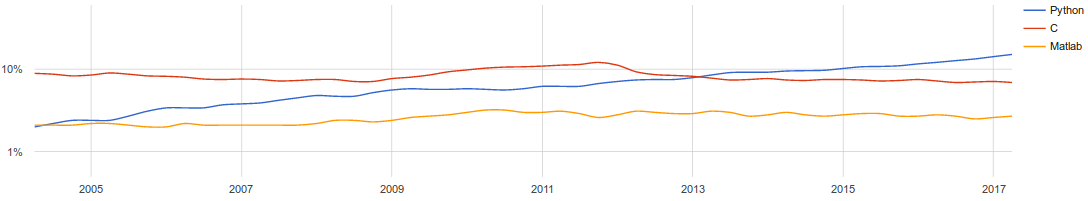
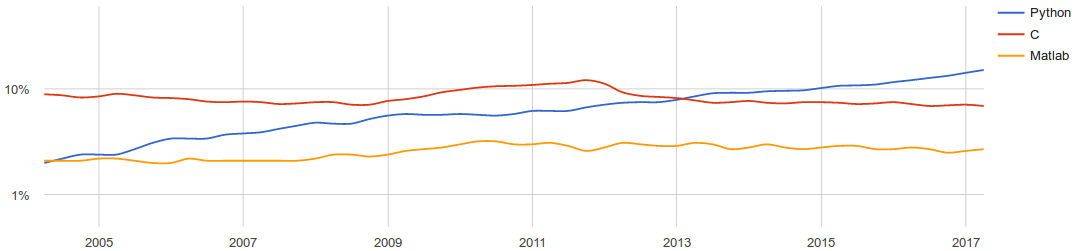
intro

diff --git a/docs/intro.rst b/docs/intro.rst
@@ -1,93 +1,65 @@
 Introduction
 ============
 
-
-Lately the digital designs made have raised in complexity.
-There are now many open-source tools that enable fast construction in software domain, for example
-GNURadio and Pothos. These tools provide users the simple way of connectin blocks togather and designing
-complex systems in this way. Downside of the software approach is that designs are slow to execute, for example
-the Wify core that cannot repsond to ACK packets in real life. There are works in progress on GPU accelerators but
-and RFNoC, but these are not suitable for embedded design.
-liiga spetsiifiline?
-
-In FPGA implementation is hard even though there exsists model.
-Implementaton the DSP blocks for FPGAs is not easy as the design progess still makes use of old Verilog and VHDL
-languages. Best way to do is MATLAB but it is expensive.
-
-This thesis presents a new Python based hardware descripton language(HDL) called Pyha, that focuses on
-simplifying development and testing process of DSP systems. Pyha aims to raise the abstraction level by
-providing sequential and object-oriented design model. Pyha is based on a OOP VHDL model that is also one
-contribution of this thesis. Simulatable in Python. Fixed point and semi-automatic conversion.
-
-One goal of this project is to make model based designs simpler, for this reason Pyha has been designed to provide
-simple unit-testing simulation functions that can work against model.
-
-Background
-----------
-
-Main way to desing digital hardware today is still VHDL and SystemVerilog(SV). SV is aggressively promoted by
+Main tools today for designing digital hardware are VHDL and SystemVerilog (SV). SV is aggressively promoted by
 the big EDA (Cadence, Mentor, Synopsys) along with Universal Verification Methodology (UVM).
-At 2003, Aart de Geus, Synopsys CEO, has stated that SystemVerilog will replace VHDL in 10 years :cite:`vhdl_dead`.
+At 2003, Aart de Geus, Synopsys CEO, has stated that SV will replace VHDL in 10 years :cite:`vhdl_dead`.
+It is true that tool vendors have stopped enchanting VHDL support, even so the development is going on in the
+open-source sphere,
+where VHDL-2017 standard :cite:`vhdl_iee` is in the development. In addition, active development is going on open
+source simulator GHDL, Open Source VHDL Verification Methodology (OSVVM) :cite:`osvvm` and unit-testing library
+VUnit:cite:`vunit`.
+All the improvements the traditional languages receive aim to ease the verification task,
+the synthesizable parts of VHDL and SV have stayed mostly the same for the past 10 years.
 
-Meanwhile the VHDL development is going on mostly in the open-source sphere where VHDL-2017
-standard :cite:`vhdl_iee` is in development. In addition, active work is going on with VHDL tools, for example
-open source VHDL simulator GHDL and unit-testing library VUnit:cite:`vunit`.
-Open Source VHDL Verification Methodology (OSVVM) :cite:`osvvm`.
-
-While these improvements work on the verification side, the synthesizable parts of VHDL and SV have stayed mostly
-the same for the past 20 years.
-
-Many projects propose to raise the RTL design abstraction level by using higher level programming
-constructs. For example, MyHDL turns Python into a hardware description and verification language,
-providing hardware engineers with the power of the Python ecosystem :cite:`myhdlweb`.
-Recently Chisel :cite:`chisel` has been gaining some attention,
+Numerous projects exist that propose to use higher level HDL languages in order to raise the abstraction level.
+For example, MyHDL turns Python into a hardware description and verification language :cite:`myhdlweb`.
+Or CλaSH :cite:`clash`, purely Haskell based functional language developed at University of Twente.
+Recently Chisel :cite:`chisel` has been gaining some traction,
 it is an hardware construction language developed at UC Berkeley that uses Scala programming language,
-they providing concepts including object orientation, functional programming, parameterized types,
-and type inference.
-From purely functional languages, there is CλaSH, an haskell based HDL, developed at University of Twente,
-that support higher order functions :cite:`clash`.
-None of these languages have gained widespread acceptance. Why?
+providing functional and object-oriented features.
+Still none of these tools have seen widespread adaption.
 
-On the other front high-level syntehsis(HLS) tools aim to automate the refinement from the algorithmic level to RTL :cite:`hls_overview`.
-Lately the Vivado HLS, developed by Xilinx, has been gaining some traction. As of 2015, it is included in the
-free design suite of Vivado (device limited). It works with C, C++ or SystemC input.
+On the other front, high-level synthesis(HLS) tools aim to automate the refinement from the algorithmic level to RTL
+:cite:`hls_overview`.
+Lately the Vivado HLS, developed by Xilinx, has been gaining popularity. As of 2015, it is included in the
+free design suite of Vivado (device limited).
 Problem with HLS tools is that they are often promoted as direct C to RTL tools but in reality
 often manual code transformations and guidlines are needed, in order
 to archive reasonable performance :cite:`vivado_hls_case_study`. The designer must already know how the RTL works in
-order to give these instructions. HLS tools are almost exclusevly based on C languages, another critisism has been
-that C is not that far from Verilog/VHDL.
+order to give these instructions.
 
 The DSP systems can be described in previously mentioned HLS or HDL languages,
 but the most productive way is to use MATLAB/Simuling/HDLConverter flow, which allows
-users to describe their designs in Simulink using HDL convertable blocks provided by MATLAB or Xilinx System Generator
-:cite:`borph`.
+users to describe their designs in Simulink or MATLAB and using HDL convertible blocks provided by MATLAB or FPGA tool
+vendor :cite:`borph`.
 
-
-Objective and scope
--------------------
-
-The scope of this thesis is on DSP systems conversion. As mentioned in the previous section, this domain is largely dominated
-by MATLAB products. One goal of this thesis is to to provide an open-source alternative to this.
+Problem statement
+-----------------
 
 There is no doubt that MATLAB based workflow offers an highly productive path from DSP models to hardware. However
-these tools can easily cost over tens of thousands euros, in addition they often require FPGA vendor tools that can add
-additional annual cost :cite:`borph`. Using these tools is not a good way for reproducible
+these tools can easily cost over tens of thousands euros, often FPGA vendor tools are required that add
+additional annual cost :cite:`borph`. Using these tools is not suitable for reproducible
 research and is completely unusable for open-source designs.
-Thus the designers must turn to alternative methods, for example :cite:`blade_adsb` provides an hardware implementation of
-an ADS-B (automatic dependent surveillance – broadcast). First, they did the prototyping in the MATLAB environment, the
-working model was then translated to C in order for real-time testing and fixed-point implementation. Lastly the C
-model was manually converted to VHDL.
-In this work, Pyha has been designed in a way that all of this workflow could be done in the Python domain.
-Long term goal is to develop enough blocks that
-that match the performance of GNURadio, so that flow-graphs could be simply converted to FPGA designs.
+Thus the designers must turn to alternative design flows, for example :cite:`blade_adsb` provides an
+hardware implementation of an ADS-B (automatic dependent surveillance – broadcast). First, they did the prototyping
+in the MATLAB environment, the working model was then translated to C for real-time testing and fixed-point modeling.
+Lastly the C model was manually converted to VHDL.
 
-Python is general purpose programming language that is especially well suited for rapid prototyping.
-Moreover, Python has also found its place in scientific projects and academia. Python offers most of what is
-familiar from MATLAB and lately in the world on data science and machine-learning, Python is the go to tool.
-Lately the scientific world has started shifting from MATLAB to Python, even full research groups are transitioning.
-:cite:`matlab_to_python`. In domain of communication systems, all the GNURadio blocks have Python mappings.
-:numref:`pypl_py_vs_mat` shows the popularity comparison (based on Google searches) of Python, MATLAB and C. Python is
-the 2. popular language just behind Java with an rising trend.
+This thesis introduces Pyha, a new Python based HDL developed during the masters thesis program, with an goal
+to provide open-source alternative for the MATLAB based flows.
+Pyha raises the RTL design abstraction by enabling sequential and object-oriented style.
+DSP systems can be built by using the fixed-point type and semi-automatic conversion from floating point.
+In addition, this work makes an effort to simplify the testing process of hardware systems by
+providing better simulation interface for unit-testing.
+
+Basis of Pyha is the Python, a general purpose programming language that is especially well suited for
+rapid prototyping and modeling. Python has also found its place in scientific projects and academia, by offering
+most of what is familiar from MATLAB, free of charge.
+The scientific world has already started shifting from MATLAB to Python,
+even full research groups are transitioning :cite:`matlab_to_python`.
+:numref:`pypl_py_vs_mat` shows the popularity comparison (based on Google searches) of Python, MATLAB and C.
+Python is far ahead and the only one with positive trend.
 
 .. _pypl_py_vs_mat:
 .. figure:: /img/pypl_py_vs_mat.png
@@ -95,6 +67,7 @@ the 2. popular language just behind Java with an rising trend.
     :figclass: align-center
 
     PYPL(PopularitY of Programming Language) :cite:`pypl`. Python 15.1%, C 6.9%, MATLAB 2.7%
+
 
 MyHDL is following the event-driven approach which is a trait of the classical HDL's. It features an function based
 design that is very similar to Verilog processes. In general the synthesizable subset of MyHDL is very limited,
@@ -104,15 +77,8 @@ combinatorial and synchronous statements :cite:`migenweb`. Migen can be consider
 it is a bit complicated. Both Migen and MyHDL are more aimed at the control logic, neither implements the fixed-point
 data type, that is a standard for hardware DSP designs.
 
-This thesis introduces Pyha, a new Python based HDL, that was developed during the masters thesis program.
-Pyha focuses clearly on the DSP systems by providing the fixed-point type and semi-automatic conversion from
-floating point. In addition, this work makes an effort to simplify the testing process of hardware systems, by
-providing one function that runs all the simulations.
-Pyha aims to raise the abstraction level by using sequential object-oriented style, major advantage of this
-is that existing blocks can be connected together in purely Pythonic way, the
-designer needs to know nothing about the underlying RTL implementation.
 
-Furthermore, this work introduces the sequential OOP VHDL model, that is developed to allow trivial conversion
+Furthermore, this work introduces the sequential OOP VHDL model, that is developed to allow simpler conversion
 from Python to VHDL.
 Side contribution
 

diff --git a/docs/abstract.rst b/docs/abstract.rst
@@ -1,0 +1,24 @@
+Abstract
+========
+
+
+Lately the digital designs made have raised in complexity.
+There are now many open-source tools that enable fast construction in software domain, for example
+GNURadio and Pothos. These tools provide users the simple way of connectin blocks togather and designing
+complex systems in this way. Downside of the software approach is that designs are slow to execute, for example
+the Wify core that cannot repsond to ACK packets in real life. There are works in progress on GPU accelerators but
+and RFNoC, but these are not suitable for embedded design.
+liiga spetsiifiline?
+
+In FPGA implementation is hard even though there exsists model.
+Implementaton the DSP blocks for FPGAs is not easy as the design progess still makes use of old Verilog and VHDL
+languages. Best way to do is MATLAB but it is expensive.
+
+This thesis presents a new Python based hardware descripton language(HDL) called Pyha, that focuses on
+simplifying development and testing process of DSP systems. Pyha aims to raise the abstraction level by
+providing sequential and object-oriented design model. Pyha is based on a OOP VHDL model that is also one
+contribution of this thesis. Simulatable in Python. Fixed point and semi-automatic conversion.
+
+One goal of this project is to make model based designs simpler, for this reason Pyha has been designed to provide
+simple unit-testing simulation functions that can work against model.
+

diff --git a/docs/summary.rst b/docs/summary.rst
@@ -55,3 +55,7 @@ In some seneses the Python part could be considers as Python binding to VHDL OOP
 Convert to HLS langauge instead of VHDL, then the designer could choose to to either design for RTL or HLS, this is
 more as an futures perspective, this thesis works only with the RTL part.
 
+Long term goal of the project is to develop enough blocks that are functionally equal to GNURadio blocks, so that
+flow-graphs could be converted to FPGA designs, thus providing an open-source alternative for Simulink
+based flows.
+

diff --git a/docs/examples.rst b/docs/examples.rst
@@ -215,4 +215,6 @@ the output of the filter starts countering the DC component until it is removed.
 Summary
 -------
 
-Tere
+Pyha aims to raise the abstraction level by using sequential object-oriented style, major advantage of this
+is that existing blocks can be connected together in purely Pythonic way, the
+designer needs to know nothing about the underlying RTL implementation.
